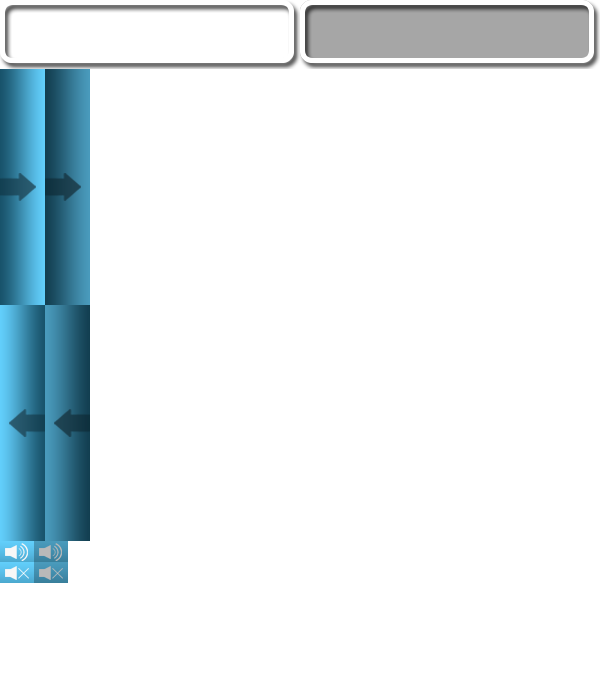
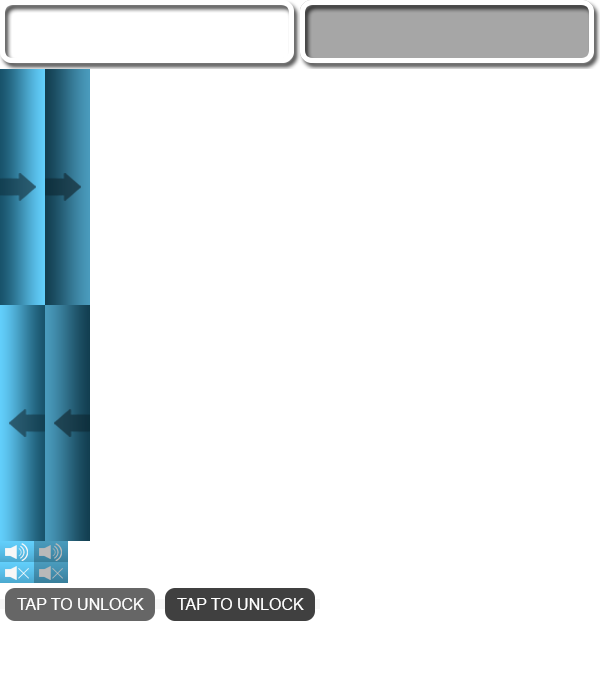
Progress added to options, penguin selection menu

Changed region(s): [[0.0, 0.8473, 0.54, 0.9078]]

diff --git a/src/com/valgriz/screen/Options.java b/src/com/valgriz/screen/Options.java
@@ -1,5 +1,8 @@
 package com.valgriz.screen;
 
+import java.util.ArrayList;
+
+import javafx.geometry.Rectangle2D;
 import javafx.scene.Group;
 import javafx.scene.effect.DropShadow;
 import javafx.scene.image.Image;
@@ -7,6 +10,7 @@ import javafx.scene.image.ImageView;
 import javafx.scene.text.Font;
 import javafx.scene.text.Text;
 
+import com.twopercent.main.Penguin;
 import com.twopercent.render.BackgroundD;
 
 public class Options {
@@ -14,6 +18,8 @@ public class Options {
 	public static BackgroundD backgroundD;
 	private Group root, subGroup;
 	private Text title;
+	private static Text penguinName;
+	private static Text penguinPrice;
 	private Image dockImage;
 	private ImageView dockImageView;
 	private Image sideImage;
@@ -23,6 +29,20 @@ public class Options {
 	private ImageView centerDockImageView;
 	private Image shadowImage;
 	private ImageView shadowImageView;
+	private Image penguinSpriteSheet;
+	private Image starImage;
+	private static ImageView starImageView;
+	private static ImageView birdA;
+	private static ImageView birdB;
+	private static ImageView birdC;
+
+	private final static int TOTAL_NUMBER_OF_PENGUINS = 7;
+	private final static int PENGUIN_WIDTH = 66;
+	private final static int PENGUIN_HEIGHT = 40;
+
+	private static int currentPenguinSelection;
+
+	private static ArrayList penguinArrayList;
 
 	public Options() {
 		root = new Group();
@@ -38,6 +58,29 @@ public class Options {
 		title.setY(60);
 		dropShadow.setOffsetX(3);
 		dropShadow.setOffsetY(3);
+
+		penguinName = new Text("A PENGUIN");
+		penguinName.setFill(new javafx.scene.paint.Color(1, 1, 1, 1));
+		penguinName.setFont(new Font("Arial", 24));
+		penguinName.setEffect(dropShadow);
+		penguinName.setX((720 / 2) - (penguinName.getBoundsInLocal().getWidth() / 2));
+		penguinName.setY(287);
+		dropShadow.setOffsetX(3);
+		dropShadow.setOffsetY(3);
+
+		penguinPrice = new Text("000");
+		penguinPrice.setFill(new javafx.scene.paint.Color(1, 1, 1, 1));
+		penguinPrice.setFont(new Font("Arial", 24));
+		penguinPrice.setEffect(dropShadow);
+		penguinPrice.setX(340);
+		penguinPrice.setY(317);
+		dropShadow.setOffsetX(3);
+		dropShadow.setOffsetY(3);
+
+		penguinArrayList = new ArrayList<>();
+		definePenguins();
+
+		currentPenguinSelection = 0;
 
 		dockImage = new Image(Options.class.getResource("/res/images/dock.png").toString());
 		dockImageView = new ImageView(dockImage);
@@ -63,16 +106,107 @@ public class Options {
 		shadowImageView.setX(140);
 		shadowImageView.setY(96);
 
+		penguinSpriteSheet = new Image(Options.class.getResource("/res/images/bird.png").toString());
+		birdA = new ImageView(penguinSpriteSheet);
+		birdB = new ImageView(penguinSpriteSheet);
+		birdC = new ImageView(penguinSpriteSheet);
+
+		birdA.setViewport(new Rectangle2D((TOTAL_NUMBER_OF_PENGUINS - currentPenguinSelection - 1) * PENGUIN_WIDTH, 0,
+				PENGUIN_WIDTH, PENGUIN_HEIGHT));
+		birdA.setX(183);
+		birdA.setY(180);
+
+		birdB.setViewport(new Rectangle2D((currentPenguinSelection * PENGUIN_WIDTH), 0, PENGUIN_WIDTH, PENGUIN_HEIGHT));
+		birdB.setScaleX(2);
+		birdB.setScaleY(2);
+		birdB.setX(325);
+		birdB.setY(180);
+
+		birdC.setViewport(new Rectangle2D((currentPenguinSelection + 1) * PENGUIN_WIDTH, 0, PENGUIN_WIDTH,
+				PENGUIN_HEIGHT));
+		birdC.setX(465);
+		birdC.setY(180);
+
+		starImage = new Image(Options.class.getResource("/res/images/star.png").toString());
+		starImageView = new ImageView(starImage);
+		starImageView.setX(310);
+		starImageView.setY(291);
+		starImageView.setScaleX(.5);
+		starImageView.setScaleY(.5);
+
 		root.getChildren().add(title);
 
 		subGroup.getChildren().add(dockImageView);
 		subGroup.getChildren().add(sideLeftImageView);
 		subGroup.getChildren().add(sideRightImageView);
 		subGroup.getChildren().add(centerDockImageView);
+
 		// Penguins
+
+		subGroup.getChildren().add(birdA);
+		subGroup.getChildren().add(birdB);
+		subGroup.getChildren().add(birdC);
 
 		subGroup.getChildren().add(shadowImageView);
 
+		subGroup.getChildren().add(penguinName);
+		subGroup.getChildren().add(starImageView);
+		subGroup.getChildren().add(penguinPrice);
+
+		updatePenguinPositions();
+	}
+
+	private void definePenguins() {
+		penguinArrayList.add(new Penguin(0, 300, true, "A PENGUIN"));
+		penguinArrayList.add(new Penguin(1, 350, false, "BLUE BEAK"));
+		penguinArrayList.add(new Penguin(2, 420, false, "WU-TANG-PENG"));
+		penguinArrayList.add(new Penguin(3, 500, false, "SASSY"));
+		penguinArrayList.add(new Penguin(4, 600, false, "GREEN PENGUIN WITH A MOHAWK"));
+		penguinArrayList.add(new Penguin(5, 1337, false, "BALLIN"));
+		penguinArrayList.add(new Penguin(6, 80085, false, "GABEN"));
+
+	}
+
+	public static void selectionRight() {
+		currentPenguinSelection++;
+
+		updatePenguinPositions();
+	}
+
+	public static void selectionLeft() {
+		currentPenguinSelection--;
+		updatePenguinPositions();
+	}
+
+	private static void updatePenguinPositions() {
+		if (currentPenguinSelection > TOTAL_NUMBER_OF_PENGUINS - 1)
+			currentPenguinSelection = 0;
+		if (currentPenguinSelection < 0)
+			currentPenguinSelection = TOTAL_NUMBER_OF_PENGUINS - 1;
+
+		if (currentPenguinSelection == 0) {
+			birdA.setViewport(new Rectangle2D(Math.abs(TOTAL_NUMBER_OF_PENGUINS - 1) * PENGUIN_WIDTH, 0, PENGUIN_WIDTH,
+					PENGUIN_HEIGHT));
+		} else {
+			birdA.setViewport(new Rectangle2D(Math.abs(currentPenguinSelection - 1) * PENGUIN_WIDTH, 0, PENGUIN_WIDTH,
+					PENGUIN_HEIGHT));
+		}
+		birdB.setViewport(new Rectangle2D(Math.abs(currentPenguinSelection) * PENGUIN_WIDTH, 0, PENGUIN_WIDTH,
+				PENGUIN_HEIGHT));
+
+		if (currentPenguinSelection == TOTAL_NUMBER_OF_PENGUINS - 1) {
+			birdC.setViewport(new Rectangle2D(Math.abs(0) * PENGUIN_WIDTH, 0, PENGUIN_WIDTH, PENGUIN_HEIGHT));
+		} else {
+			birdC.setViewport(new Rectangle2D(Math.abs(currentPenguinSelection + 1) * PENGUIN_WIDTH, 0, PENGUIN_WIDTH,
+					PENGUIN_HEIGHT));
+		}
+
+		System.out.println("currentPenguinSelection: " + currentPenguinSelection);
+		Penguin p = (Penguin) penguinArrayList.get(currentPenguinSelection);
+		penguinName.setText(p.getName());
+		penguinName.setX((720 / 2) - (penguinName.getBoundsInLocal().getWidth() / 2));
+
+		penguinPrice.setText("" + p.getStarsRequired());
 	}
 
 	public void update() {

diff --git a/src/com/twopercent/render/UI.java b/src/com/twopercent/render/UI.java
@@ -63,9 +63,10 @@ public class UI extends UserInterfaceCreator {
 		addButton(387, 356, 300, 69, "HELP", 0, "mmHelp");
 		addButton(33, 356, 300, 69, "MAIN MENU", 0, "smMainMenu");
 		addButton(387, 356, 300, 69, "PLAY GAME", 0, "smPlayGame");
-		addCustomButton(576, 95, 45, 236, "", 1, 0, 69, "omRight");
 		addCustomButton(94, 95, 45, 236, "", 1, 0, 305, "omLeft");
+		addCustomButton(576, 95, 45, 236, "", 1, 0, 69, "omRight");
 		addCustomButton(340, 95, 34, 21, "", 1, 0, 541, "omSound");
+		addCustomButton(277, 180, 160, 43, "", 1, 0, 583, "omUnlock");
 		stateChanged();
 
 	}
@@ -185,11 +186,13 @@ public class UI extends UserInterfaceCreator {
 				getButton("omRight").setVisible(true);
 				getButton("omLeft").setVisible(true);
 				getButton("omSound").setVisible(true);
+				getButton("omUnlock").setVisible(true);
 			} else {
 				Screen.setVisibleGroup("MainMenu");
 				getButton("omRight").setVisible(false);
 				getButton("omLeft").setVisible(false);
 				getButton("omSound").setVisible(false);
+				getButton("omUnlock").setVisible(false);
 			}
 			getButton("smMainMenu").setVisible(true);
 			getButton("smPlayGame").setVisible(true);
@@ -210,6 +213,7 @@ public class UI extends UserInterfaceCreator {
 			getButton("omRight").setVisible(false);
 			getButton("omLeft").setVisible(false);
 			getButton("omSound").setVisible(false);
+			getButton("omUnlock").setVisible(false);
 
 		}
 
@@ -224,7 +228,7 @@ public class UI extends UserInterfaceCreator {
 	public void update() {
 		super.update();
 
-		showScreenStatus();
+		// showScreenStatus();
 
 		if (Global.gameStateChanged)
 			stateChanged();

diff --git a/src/com/twopercent/main/Penguin.java b/src/com/twopercent/main/Penguin.java
@@ -1,0 +1,47 @@
+package com.twopercent.main;
+
+public class Penguin {
+	private int penguinNumber, starsRequired;
+	private boolean unlocked;
+	private String name;
+
+	public Penguin(int penguinNumber, int starsRequired, boolean unlocked, String name) {
+		this.penguinNumber = penguinNumber;
+		this.starsRequired = starsRequired;
+		this.unlocked = unlocked;
+		this.name = name;
+	}
+
+	public int getPenguinNumber() {
+		return penguinNumber;
+	}
+
+	public void setPenguinNumber(int penguinNumber) {
+		this.penguinNumber = penguinNumber;
+	}
+
+	public int getStarsRequired() {
+		return starsRequired;
+	}
+
+	public void setStarsRequired(int starsRequired) {
+		this.starsRequired = starsRequired;
+	}
+
+	public boolean isUnlocked() {
+		return unlocked;
+	}
+
+	public void setUnlocked(boolean unlocked) {
+		this.unlocked = unlocked;
+	}
+
+	public String getName() {
+		return name;
+	}
+
+	public void setName(String name) {
+		this.name = name;
+	}
+
+}

diff --git a/src/com/twopercent/main/InputController.java b/src/com/twopercent/main/InputController.java
@@ -9,6 +9,7 @@ import com.twopercent.render.UI;
 import com.twopercent.render.UserInterfaceCreator;
 import com.twopercent.render.VisibleObject;
 import com.valgriz.screen.MainMenu;
+import com.valgriz.screen.Options;
 import com.valgriz.screen.PlayGame;
 import com.valgriz.screen.Screen;
 
@@ -213,6 +214,12 @@ public class InputController {
 				Global.inOptions = false;
 				Screen.setVisibleGroup("PlayGame");
 				Global.gameStateChanged = true;
+				break;
+			case "omLeft":
+				Options.selectionLeft();
+				break;
+			case "omRight":
+				Options.selectionRight();
 				break;
 
 			}
